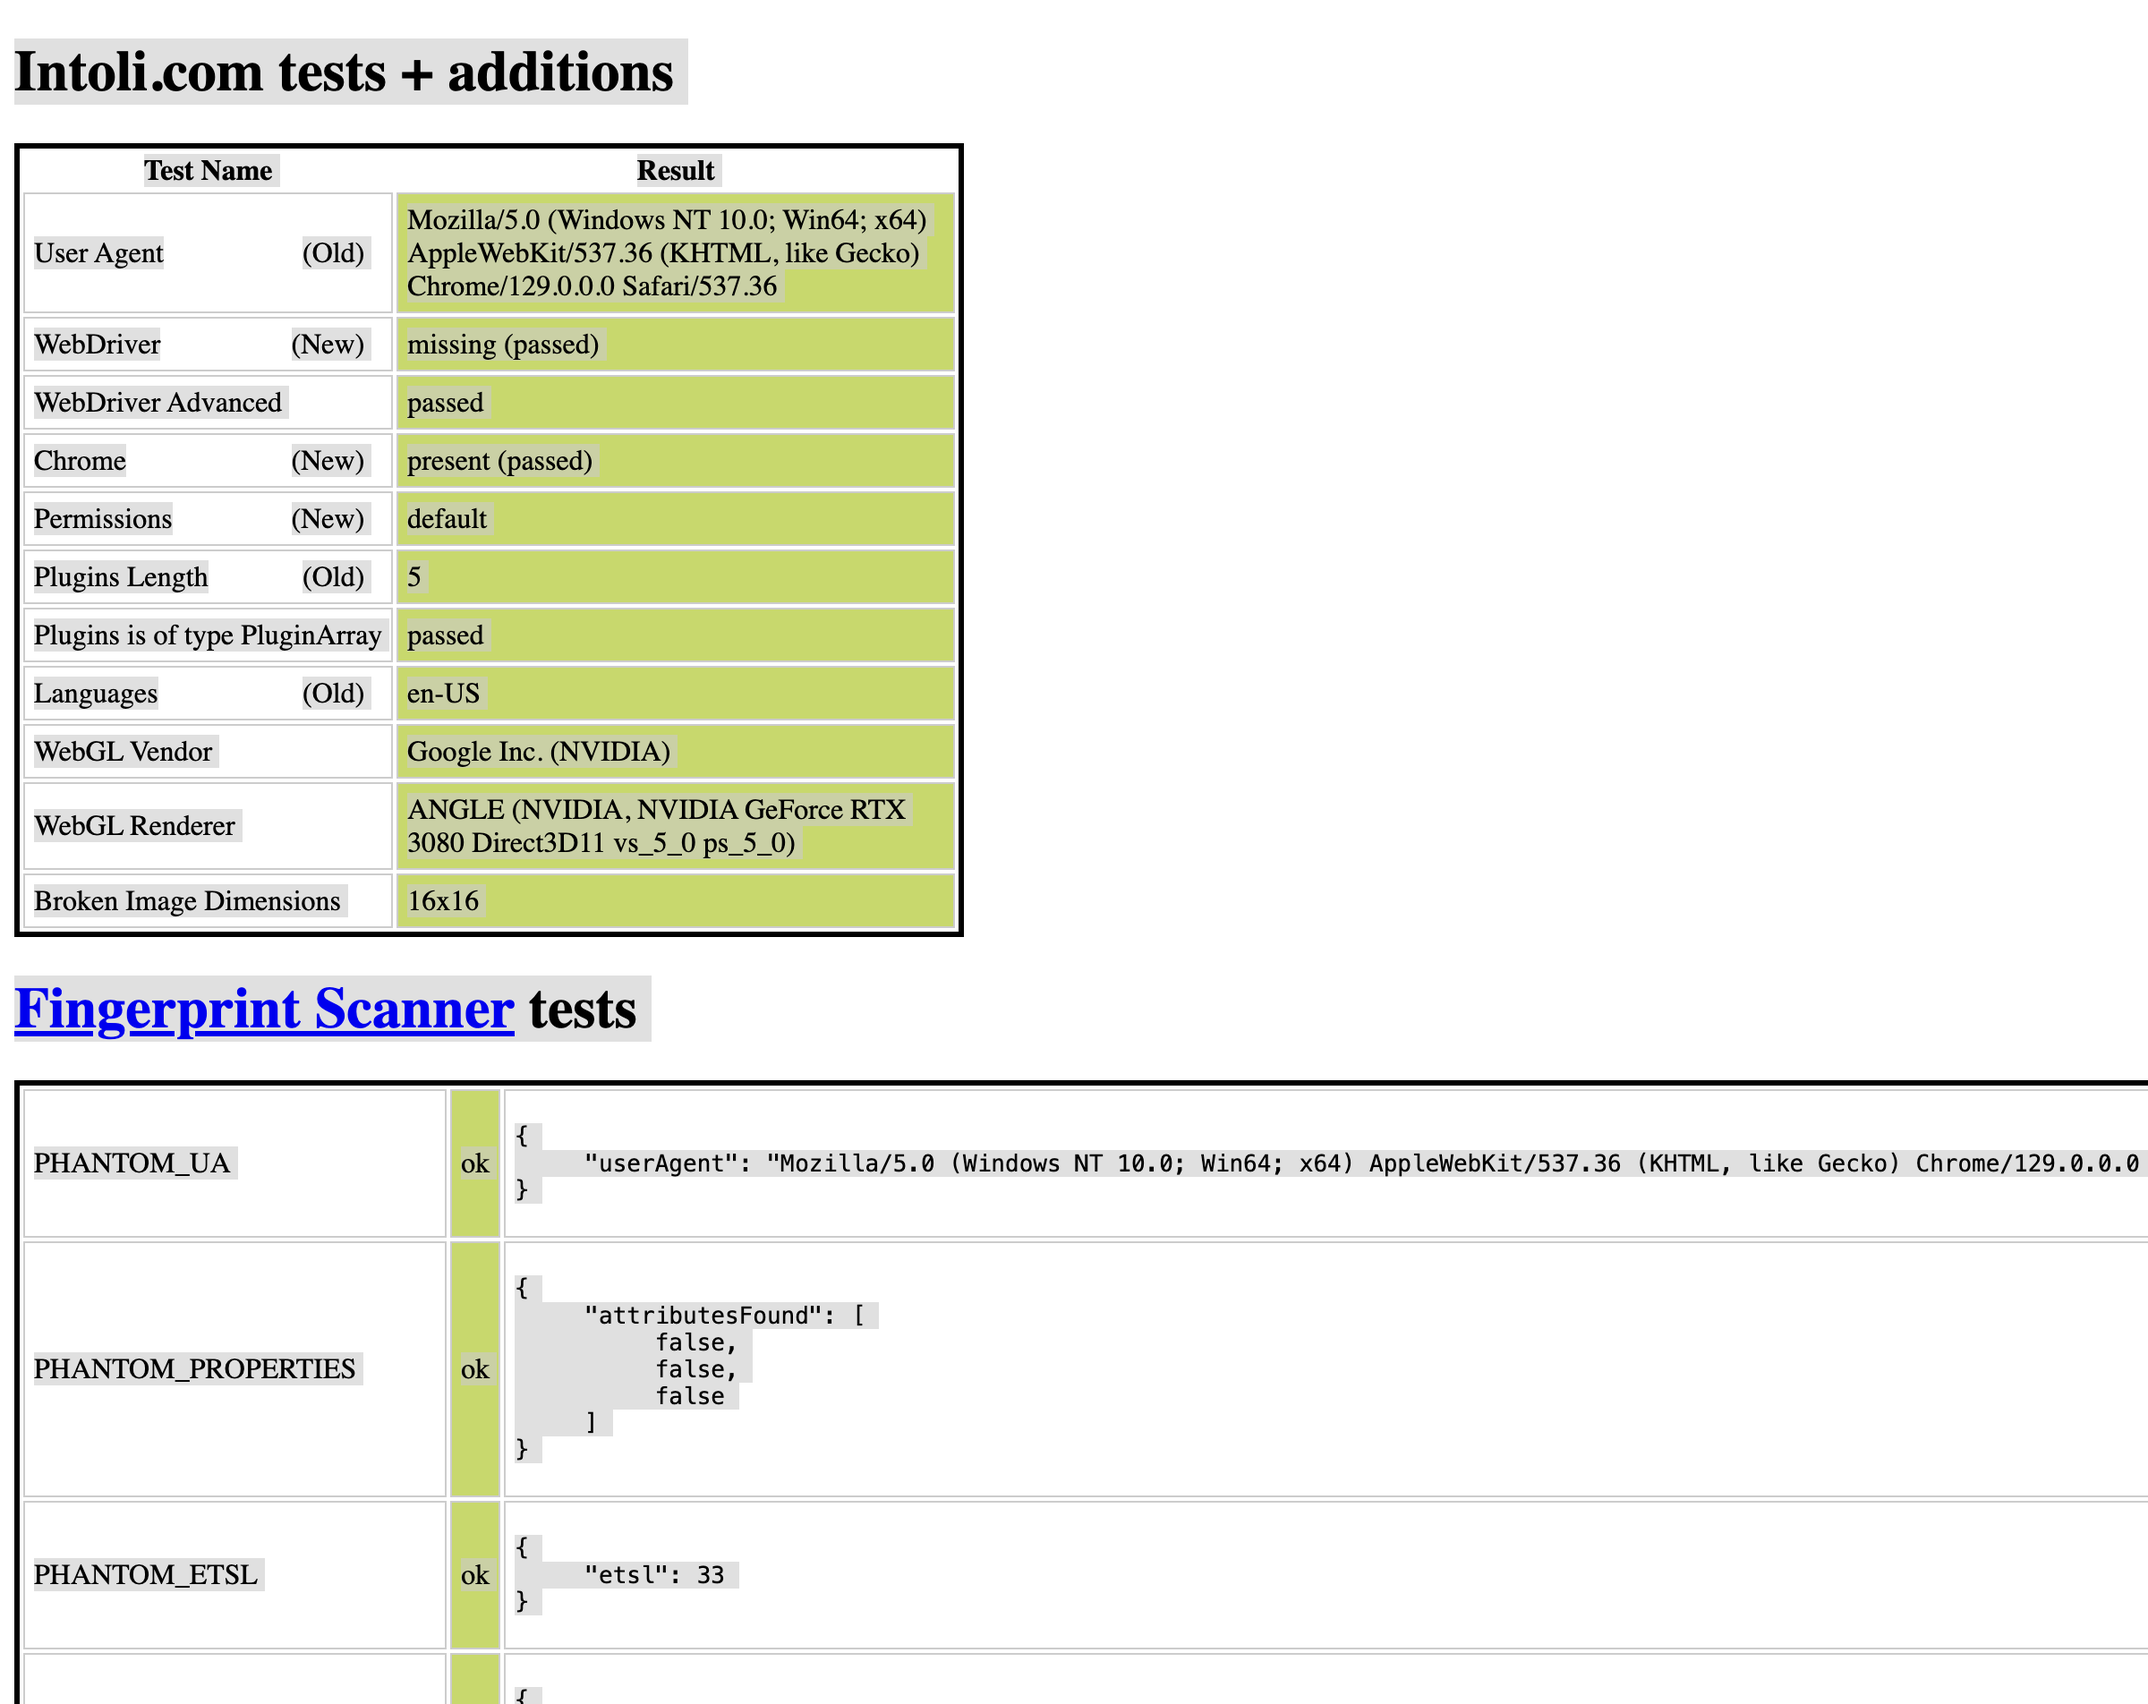
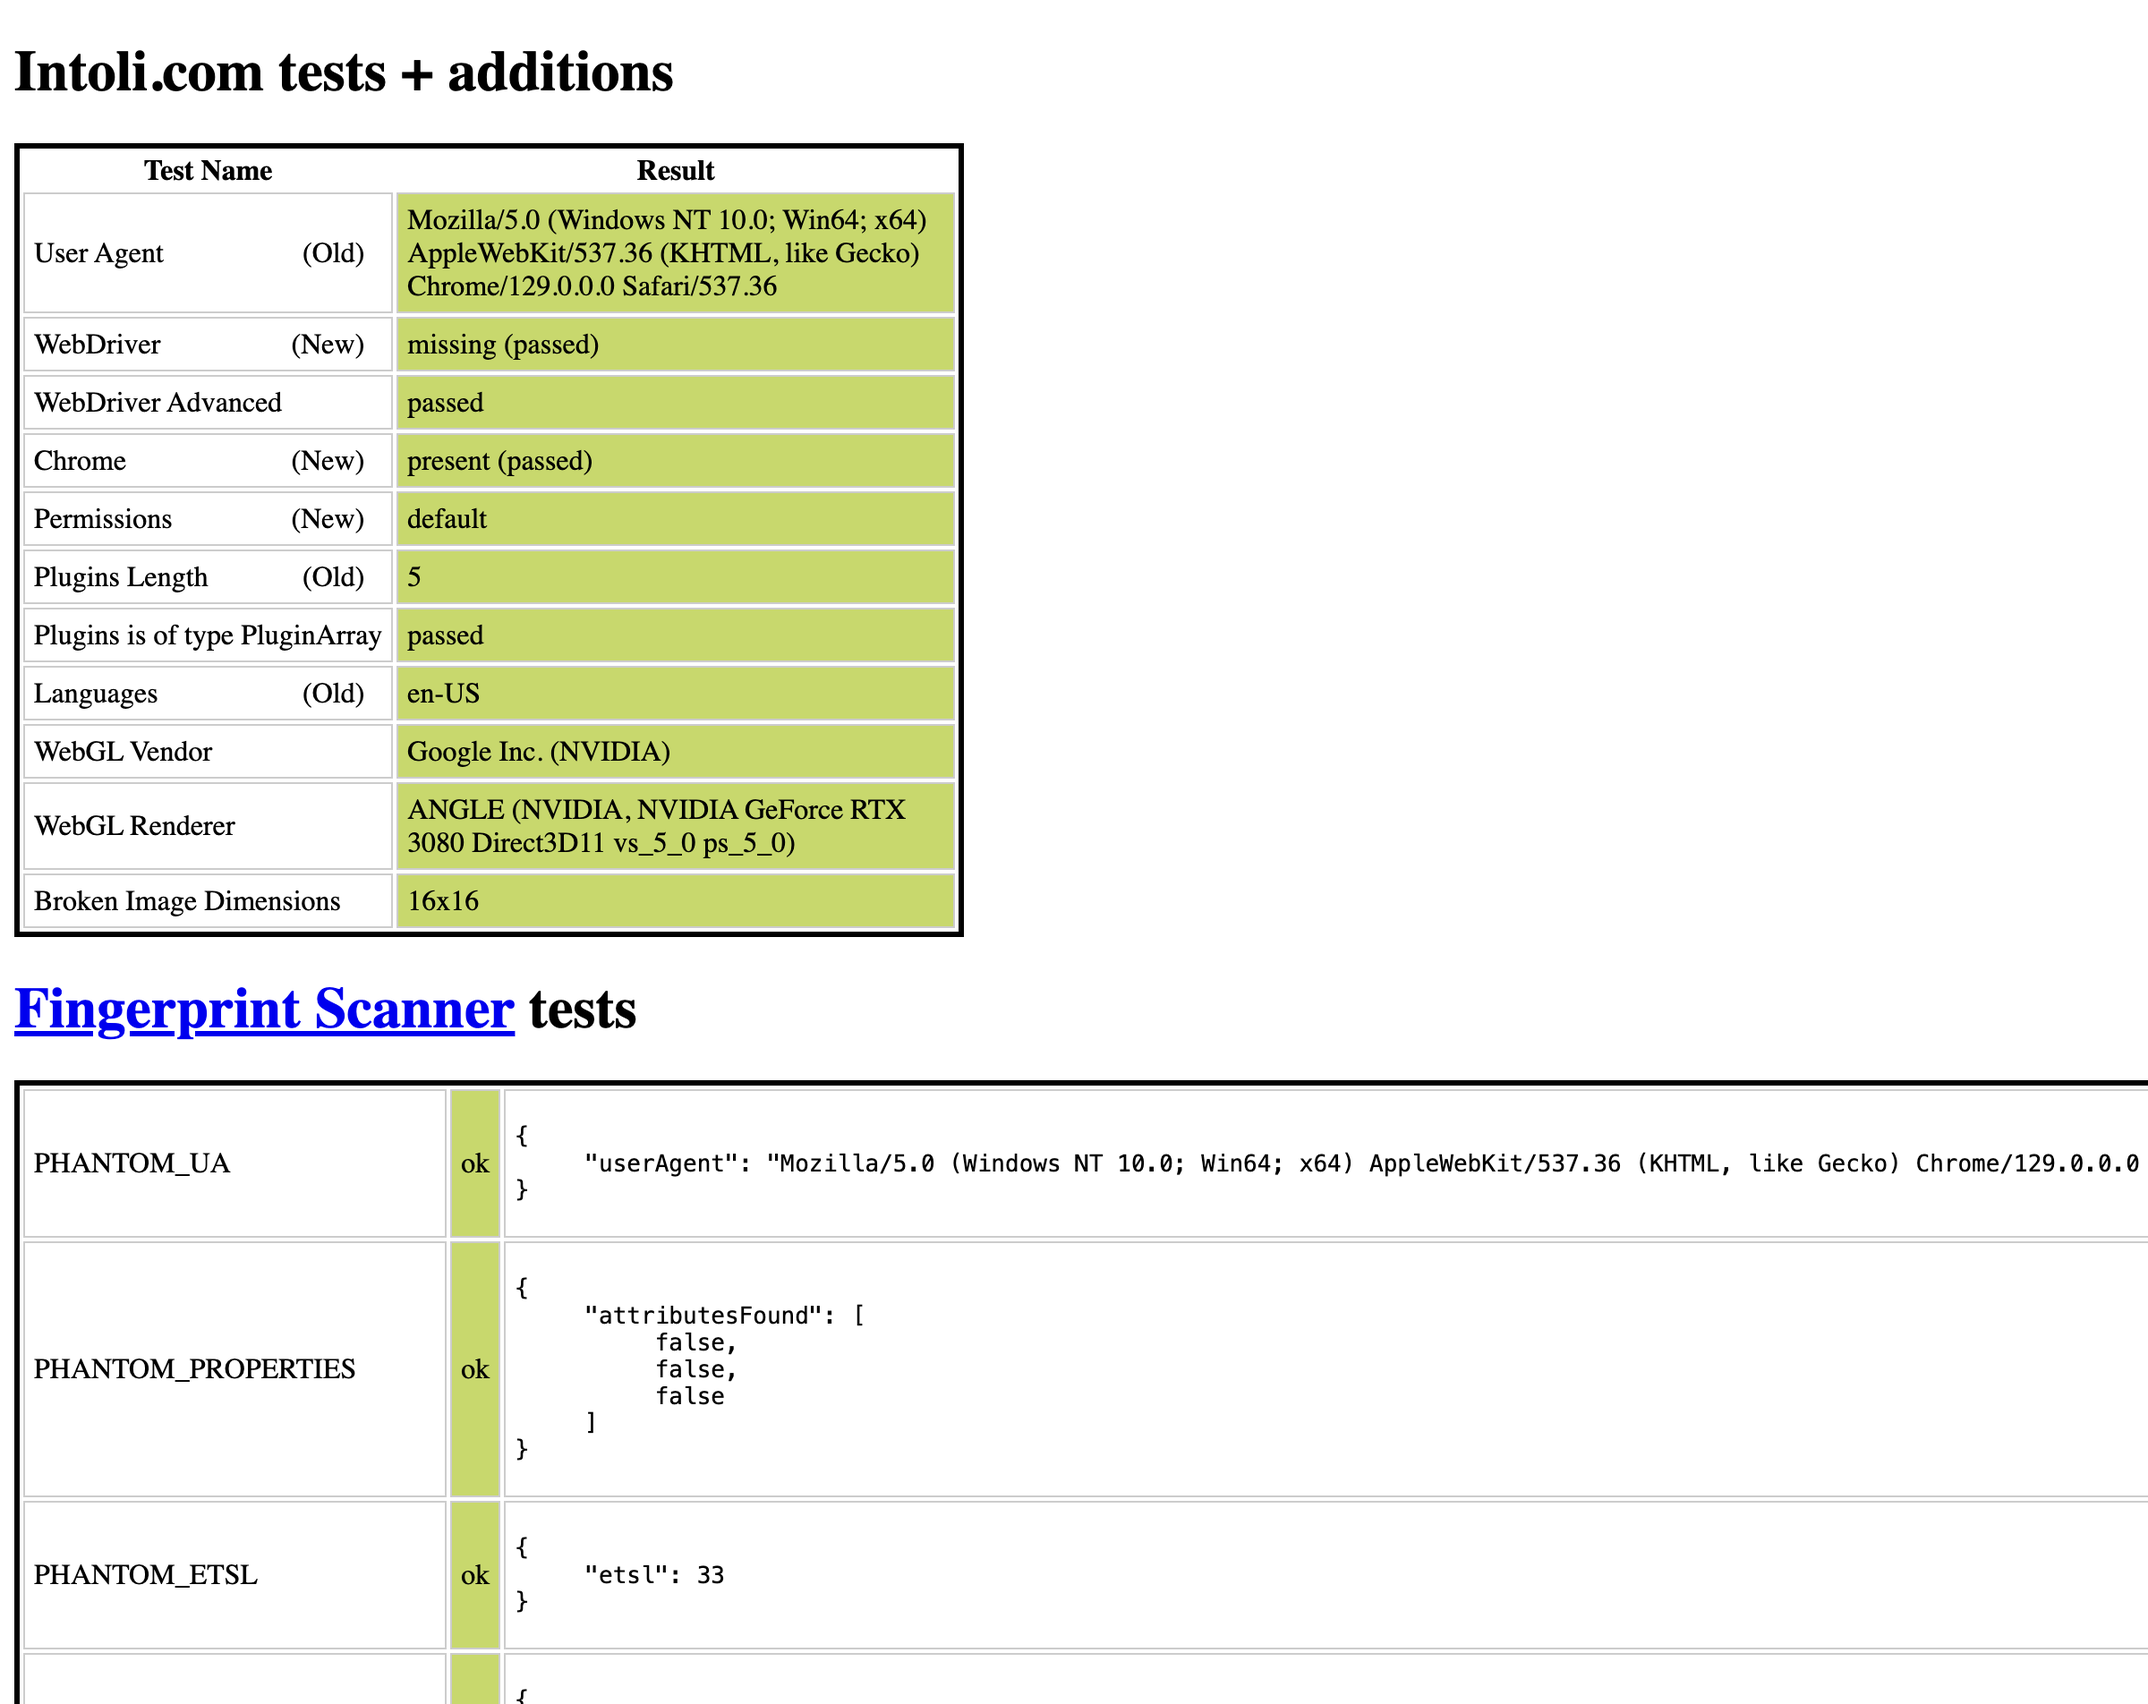
feat: add apply_profile() for clean one-liner profile application

diff --git a/src/ghost.rs b/src/ghost.rs
@@ -1,6 +1,7 @@
 use std::sync::{Arc, Mutex};
 use crate::page::Page;
-use chromiumoxide_cdp::cdp::browser_protocol::page::CreateIsolatedWorldParams;
+use crate::profiles::GhostProfile;
+use chromiumoxide_cdp::cdp::browser_protocol::page::{CreateIsolatedWorldParams, AddScriptToEvaluateOnNewDocumentParams};
 use chromiumoxide_cdp::cdp::browser_protocol::input::{
     DispatchKeyEventParams, DispatchKeyEventType,
 };
@@ -38,6 +39,38 @@ impl GhostPage {
     /// Access the underlying Page for standard operations.
     pub fn inner(&self) -> &Page {
         &self.inner
+    }
+
+    /// Apply a GhostProfile to this page in one clean call.
+    /// 
+    /// This method:
+    /// 1. Sets the User-Agent HTTP header
+    /// 2. Injects the profile's bootstrap script for JS-level spoofing
+    /// 
+    /// **IMPORTANT:** Call this BEFORE navigating to the target site.
+    /// 
+    /// # Example
+    /// ```rust
+    /// let profile = GhostProfile::windows().build();
+    /// let page = browser.new_page("about:blank").await?;
+    /// let ghost = GhostPage::new(page);
+    /// ghost.apply_profile(&profile).await?;
+    /// ghost.inner().goto("https://example.com").await?;
+    /// ```
+    pub async fn apply_profile(&self, profile: &GhostProfile) -> Result<()> {
+        // 1. Set the HTTP User-Agent header
+        self.inner.set_user_agent(&profile.user_agent()).await
+            .map_err(|e| anyhow!("{}", e))?;
+        
+        // 2. Inject the bootstrap script to run on every new document
+        self.inner.execute(AddScriptToEvaluateOnNewDocumentParams {
+            source: profile.bootstrap_script(),
+            world_name: None,
+            include_command_line_api: None,
+            run_immediately: None,
+        }).await.map_err(|e| anyhow!("{}", e))?;
+        
+        Ok(())
     }
 
     /// **THE REBROWSER METHOD: Absolute Stealth Execution**

diff --git a/README.md b/README.md
@@ -39,29 +39,39 @@ Ghostoxide includes a native physics-based input engine to avoid synthetic inter
 
 ```rust
 use ghostoxide::{Browser, BrowserConfig, GhostPage, GhostProfile};
+use futures::StreamExt;
 
 #[tokio::main]
 async fn main() -> anyhow::Result<()> {
-    // 1. Initialize with a consistent Windows profile
+    // 1. Create a fingerprint profile
     let profile = GhostProfile::windows().build();
     
+    // 2. Launch browser
     let (browser, mut handler) = Browser::launch(
-        BrowserConfig::builder()
-            .with_profile(profile)
-            .build()?
+        BrowserConfig::builder().build()?
     ).await?;
 
-    // 2. Wrap the standard Page in a GhostPage for interaction utilities
-    let page = browser.new_page("https://example.com").await?;
+    tokio::spawn(async move {
+        while let Some(_) = handler.next().await {}
+    });
+
+    // 3. Create page and wrap in GhostPage
+    let page = browser.new_page("about:blank").await?;
     let ghost = GhostPage::new(page);
 
-    // 3. Use hardened interaction methods
-    ghost.move_mouse_human(400, 300).await?;
+    // 4. Apply profile (sets UA + injects stealth scripts) - BEFORE navigation
+    ghost.apply_profile(&profile).await?;
+
+    // 5. Navigate to target
+    ghost.inner().goto("https://example.com").await?;
+
+    // 6. Use human-like interaction methods
+    ghost.move_mouse_human(400.0, 300.0).await?;
+    ghost.click_human(500.0, 400.0).await?;
     ghost.type_text("Search query").await?;
 
     Ok(())
 }
-
 ```
 
 ## Acknowledgements
